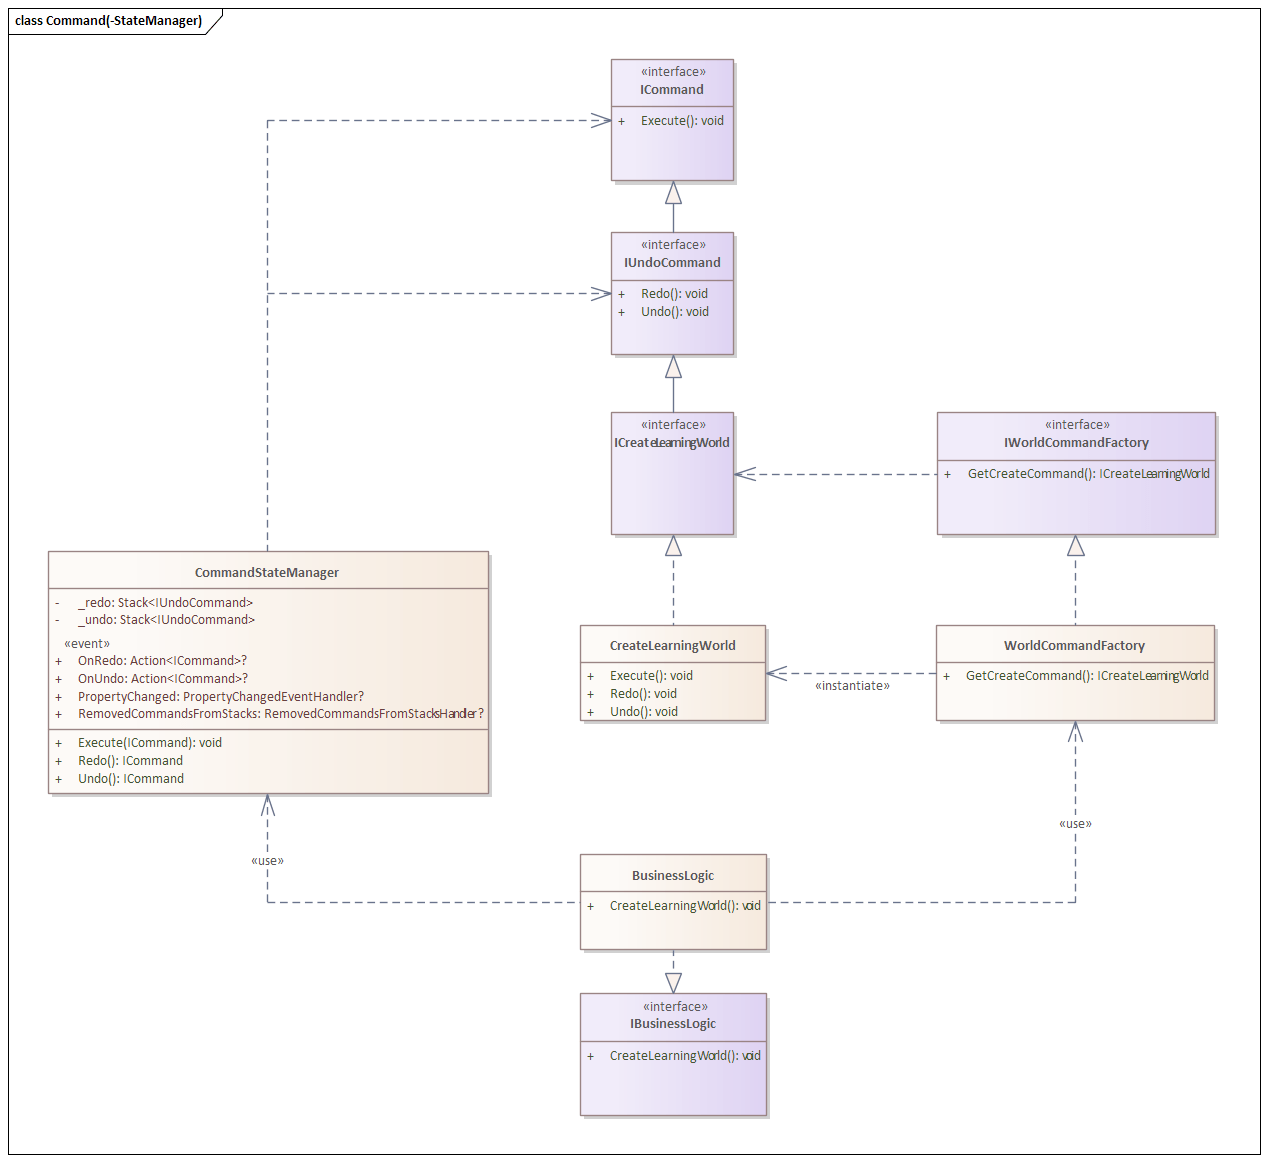
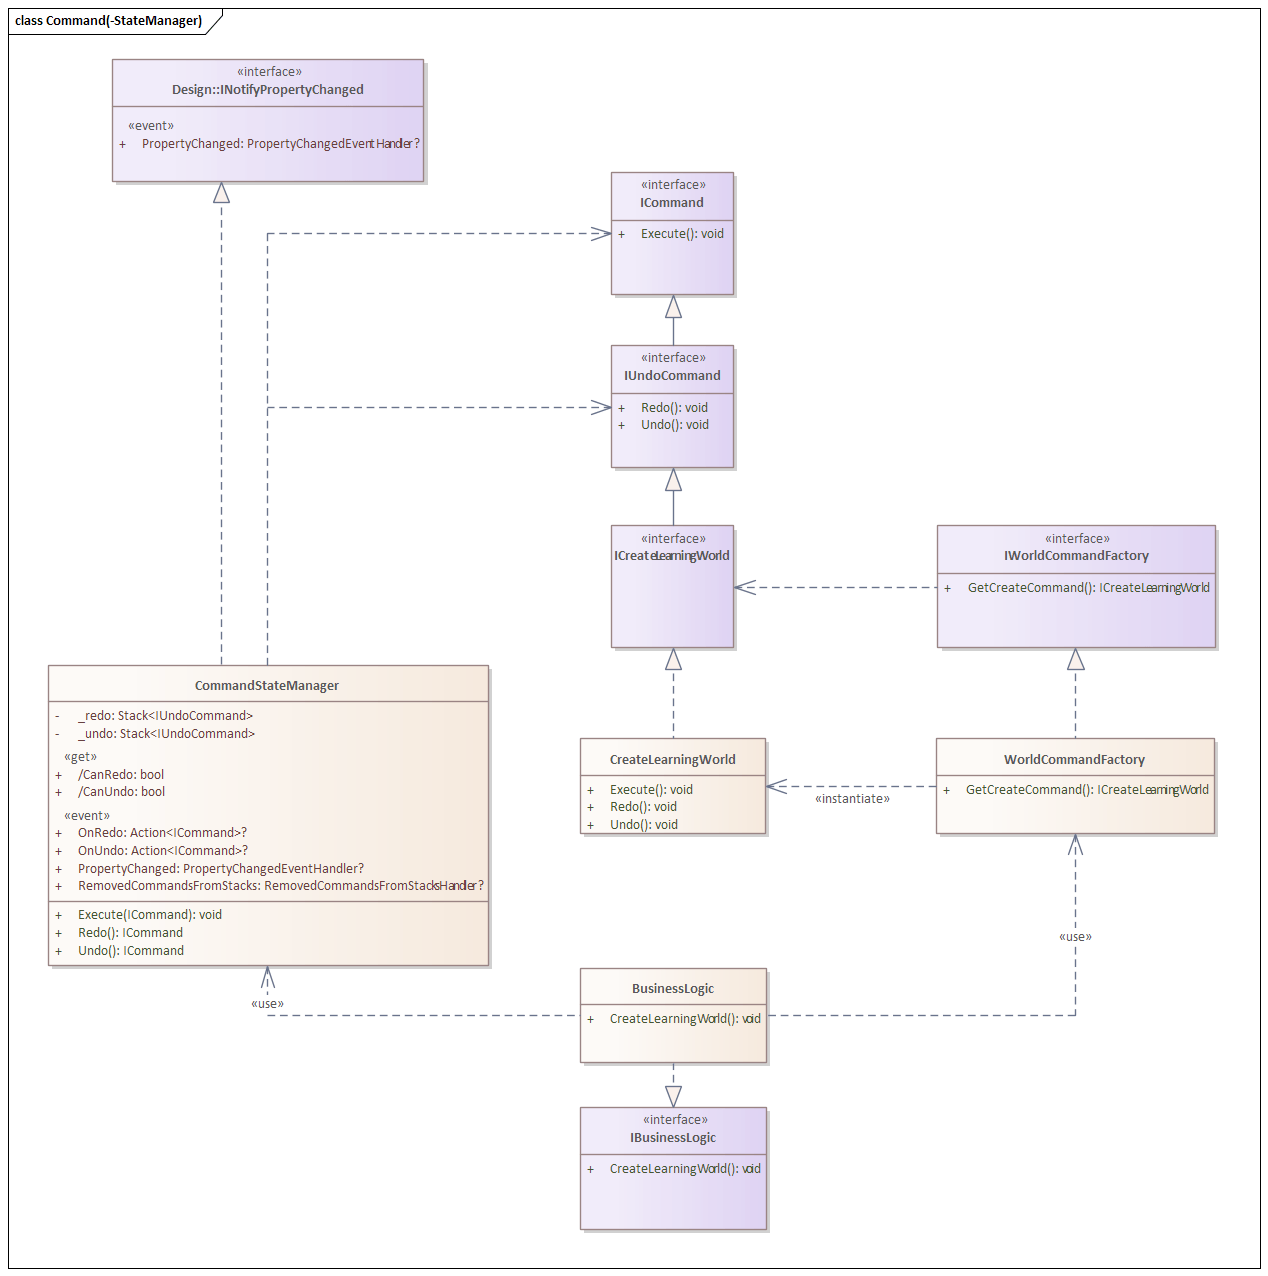
Expand software design documentation

diff --git a/AdLerDokumentation/Writerside/topics/Software-Design-Autorentool.md b/AdLerDokumentation/Writerside/topics/Software-Design-Autorentool.md
@@ -1,16 +1,51 @@
 # Software Design
 
+## INotifyPropertyChanged/-Changing
+
+Siehe [hier](https://learn.microsoft.com/en-us/dotnet/api/system.componentmodel.inotifypropertychanged?view=net-8.0) und
+[hier](https://learn.microsoft.com/en-us/dotnet/api/system.componentmodel.inotifypropertychanging?view=net-8.0).
+
+Wird an diversen Stellen verwendet, an denen Benachrichtigung von UI-Komponenten über Änderungen an verschiedenen Entities
+oder anderen UI-Zuständen implementiert werden müssen.
+
 ## (Undo- & Redo-)Command und CommandStateManager
+
 ![](imageAuthoringToolCommandStateManager.png)
-TODO
+
+Alle Usecases wie Erstellen, Ändern oder Löschen von Entities in der Businesslogik werden über Commands dargestellt.
+Commands werden durch Übergabe aller für die Ausführung relevanten Parameter an eine Factory Klasse erstellt und diese
+Commands werden dann an den CommandStateManager übergeben, welcher die Ausführung des Commands übernimmt und diese auf
+einen Undo-Stack ablegt, sofern es sich um ein umkehrbares IUndoCommand handelt. Nach Undo wird das Command auf den Redo
+Stack abgelegt, von dem aus es entsprechend wieder ausgeführt werden kann (in aller Regel: Redo == Execute).
+
+Da manche UI-Komponenten von dem Zustand des CommandStateManagers abhängen (z.B. Anzeige in HeaderBar, ob Undo/Redo möglich ist),
+wird dies über get-only Properties und INotifyPropertyChanged abgebildet.
+
+
 ## Memento
+
 ![](imageAuthoringToolMemento.png)
 
 Zum Sichern des Zustands von Objekten vor Ausführung von Commands verwenden wir das Memento Pattern um die Kapselung von
 Objekten sicherzustellen. Jede Entity-Klasse (LearningWorld, LearningSpace, LearningElement, ...) hat ihre eigene private
-nested Memento Klasse, die nur die Entity-Klasse selbst kennen kann.
+nested Memento Klasse, die nur die Entity-Klasse selbst kennen kann. Gehalten werden die Referenzen zu den jeweiligen
+Mementos in den Command Klassen, die die Änderungen durchgeführt haben. Im Undo dieser Commands werden dann lediglich die
+relevanten Mementos der Entities wiederhergestellt.
 
-Mehr Informationen siehe [hier](https://refactoring.guru/design-patterns/memento) oder GoF Buch.
+Für mehr Informationen zu Memento siehe [hier](https://refactoring.guru/design-patterns/memento) oder GoF Buch.
 
 ## Mediator
-TODO
+
+Klassendiagramm mit Beispielen von abhängigen Klassen:
+
+![](imageAuthoringToolMediator.png)
+
+Diagramm aller von IMediator abhängigen Klassen (autogeneriert in Rider):
+
+![](imageAuthoringToolMediatorUsages.png)
+
+
+Wir verwenden das Mediator Pattern im Autorentool vor allem für das Zustandsmanagement der Sidebars in MasterLayout. 
+Diese regeln, welcher Tab auf den beiden Seiten des Autorentools zu jeder Zeit geöffnet sind. Andere UI-Komponenten
+können über den Mediator dann steuern, falls ein anderer Tab geöffnet werden soll (z.B. weil in der TreeView ein Space
+angeklickt wurde).
